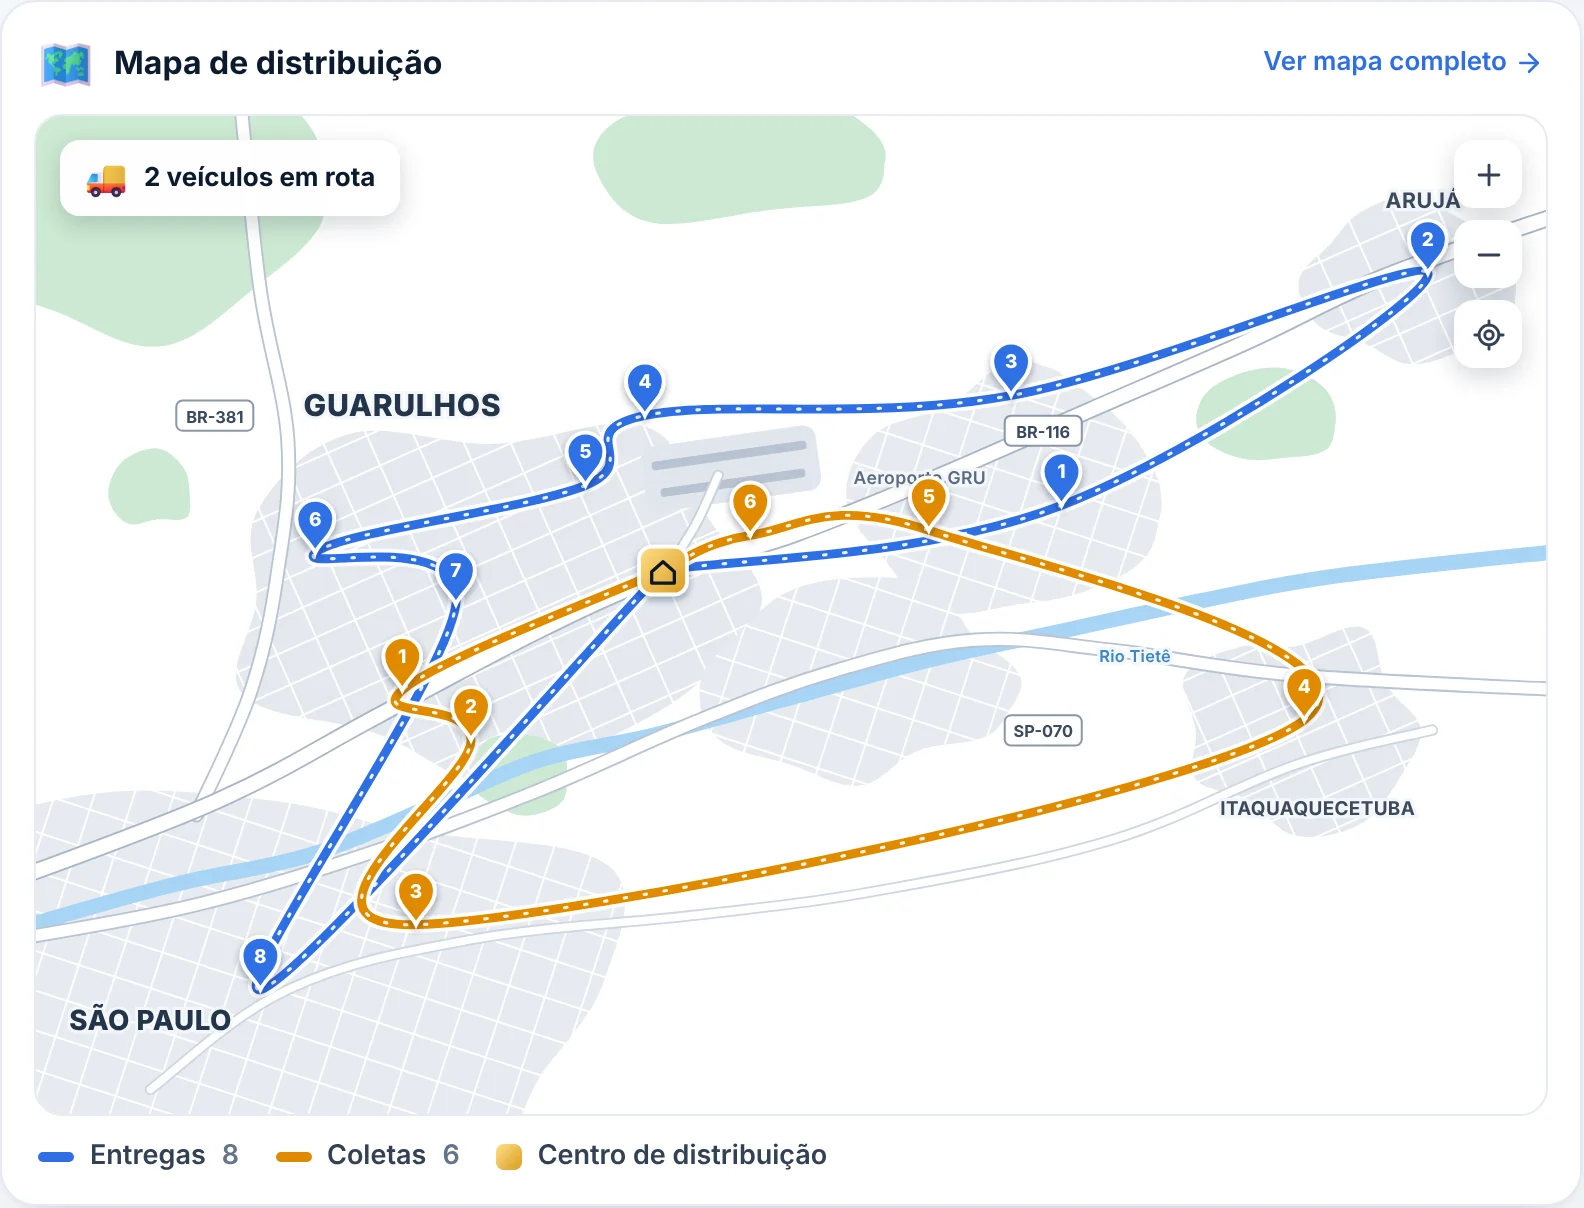
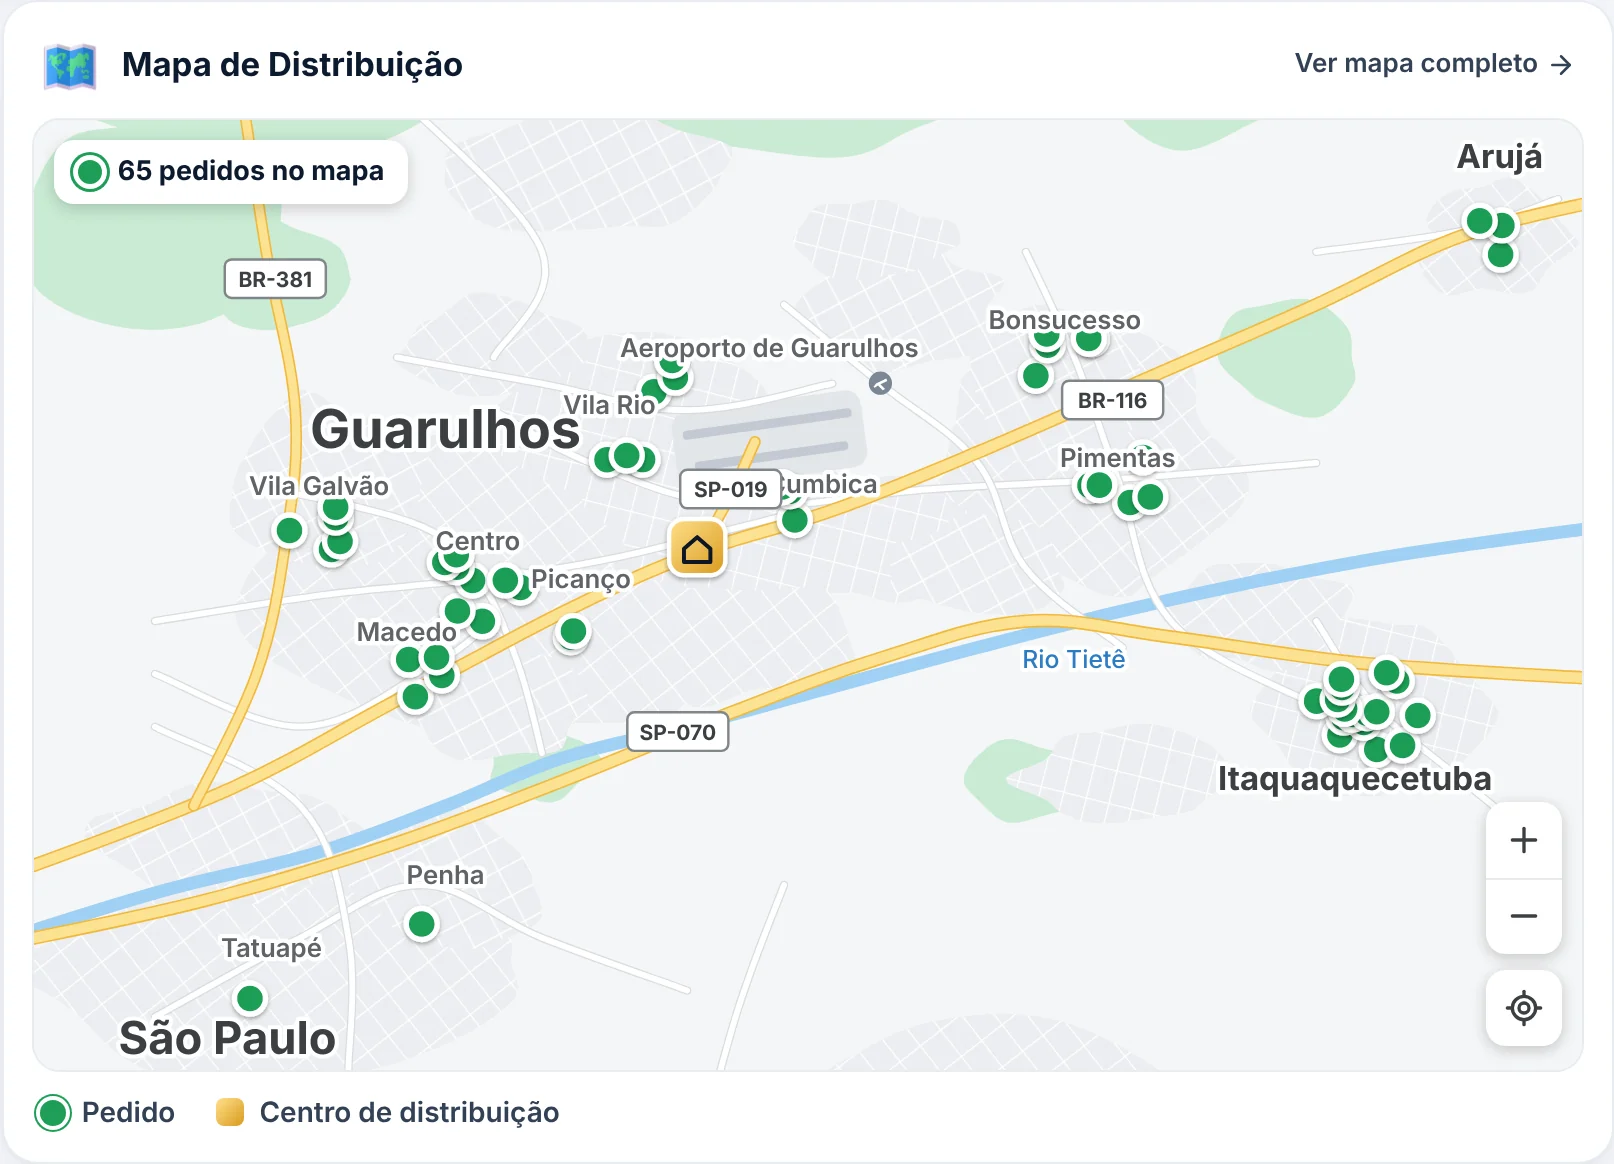
Versão 4.4: Dashboard igual ao do sistema, mapa estilo Google com um ponto por pedido
Claude-Session: https://claude.ai/code/session_01Y2emP6HBaBvSJzja7iZRew

diff --git a/index.html b/index.html
@@ -306,19 +306,19 @@
                 <!-- no celular: o mapa do painel, grande e nítido -->
                 <source
                   media="(max-width: 640px)"
-                  srcset="img/dashboard-mapa.webp 1584w"
+                  srcset="img/dashboard-mapa.webp 1614w"
                   sizes="calc(100vw - 32px)"
-                  width="1584"
-                  height="1208"
+                  width="1614"
+                  height="1164"
                 />
                 <img
                   class="hero__shot"
                   src="img/dashboard-rotav3.webp"
                   srcset="img/dashboard-rotav3.webp 1600w, img/dashboard-rotav3-2x.webp 3200w"
                   sizes="(max-width: 980px) 100vw, 56vw"
-                  alt="Dashboard do ROTAV3 com pedidos, rotas, tempo estimado, veículos, mapa de distribuição com rotas de entrega e coleta em Guarulhos, pedidos por região, próximas paradas, assistente e alertas. Dados demonstrativos."
+                  alt="Dashboard do ROTAV3: 65 pedidos, 1 rota, tempo estimado de 2h49, pedidos por região, mapa de distribuição com um ponto para cada pedido na região de Guarulhos, pedidos agendados, IA Assistente e alertas. Números de exemplo."
                   width="1600"
-                  height="1228"
+                  height="1335"
                   fetchpriority="high"
                   decoding="async"
                   data-zoom="img/dashboard-rotav3-2x.webp"
@@ -331,14 +331,14 @@
                   ><svg class="ico"><use href="#i-route" /></svg
                 ></span>
                 <span
-                  ><strong>Rota de coletas gerada</strong><small>6 paradas · 312 kg</small></span
+                  ><strong>Rota gerada às 07:40</strong><small>tempo estimado de 2h49</small></span
                 >
               </div>
               <div class="toast toast--2">
                 <span class="toast__ico toast__ico--amber"
                   ><svg class="ico"><use href="#i-invoice" /></svg
                 ></span>
-                <span><strong>Coleta #2031 importada</strong><small>Itapegica · 72 kg</small></span>
+                <span><strong>65 pedidos importados</strong><small>a partir das notas fiscais</small></span>
               </div>
               <div class="toast toast--3">
                 <span class="toast__ico toast__ico--blue"
@@ -351,7 +351,7 @@
               </div>
             </div>
             <figcaption class="hero__caption">
-              Dashboard do ROTAV3 com dados demonstrativos.
+              Dashboard do ROTAV3.
               <span class="hero__caption-tip">Toque na imagem para ampliar.</span>
             </figcaption>
           </figure>

diff --git a/README.md b/README.md
@@ -216,3 +216,8 @@ Inspirada em elevatelp.com.br (estrutura lida com o Firecrawl): brilhos colorido
 - Ícones: Lucide (licença ISC). Emojis 3D: Microsoft Fluent Emoji (licença MIT). Fonte: Inter.
 - Números coerentes com o planejador: 14 pedidos (8 entregas, 6 coletas), 2 rotas, 155 km, 7h05, 767 kg em 2 Fiorinos.
 - Nomes de fornecedores que apareciam na tela (Gemini, Firebase, QR-Tools) foram trocados por termos genéricos ("Assistente IA").
+
+## Versão 4.4 (21/10/2026) — Dashboard igual ao do sistema, mais nítido
+- O topo mostra o Dashboard no layout enviado pelo Henrique (mesmas seções e números: 65 pedidos, 1 rota, 2h49, pedidos por região, agendados, IA Assistente, alertas), recriado em código e exportado a 2×.
+- Mapa no estilo do Google Maps (paleta e tipos de via), com uma bolinha verde para cada pedido e o centro de distribuição em dourado. O traçado é desenhado à mão sobre as posições reais dos bairros; não é mapa de ruas real (o servidor do OpenStreetMap não foi acessível daqui).
+- Sem quilometragem e sem a etiqueta "dados demonstrativos" dentro da imagem; o texto alternativo diz que os números são de exemplo.
